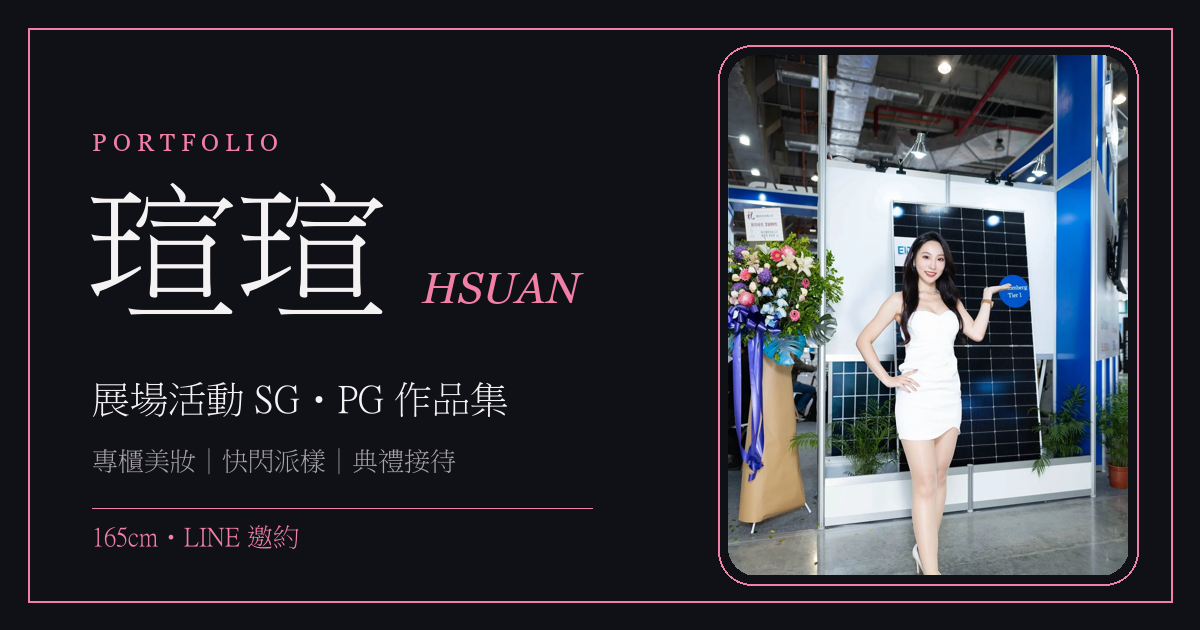
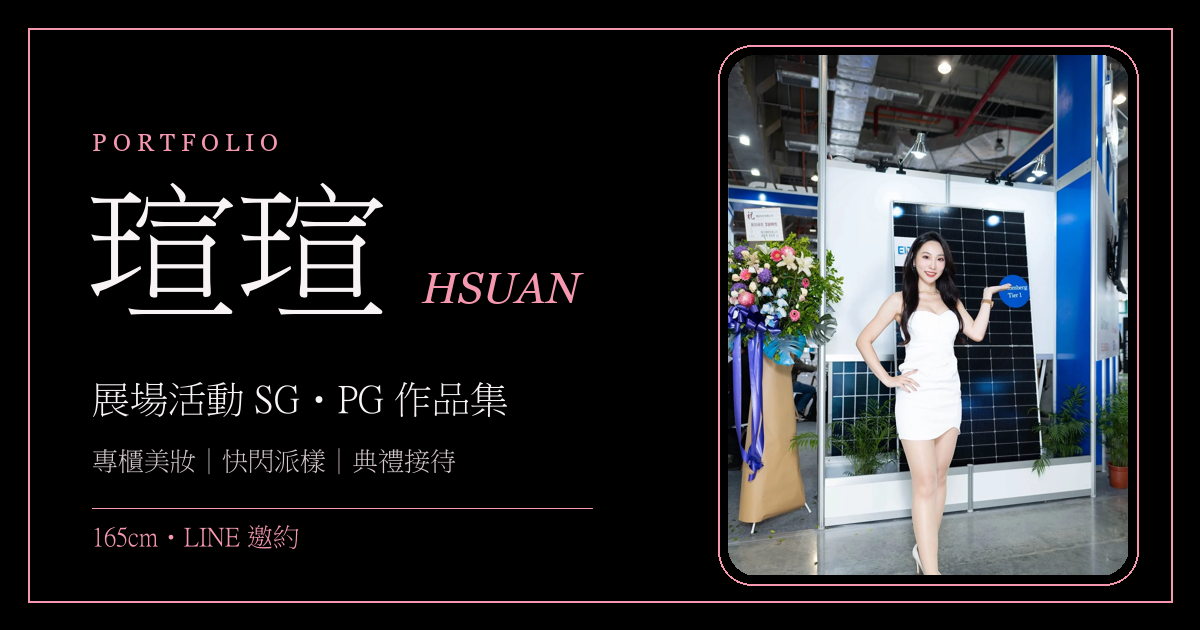
style(M1-editorial-redesign): step 6 - dark mode 配色 v4 BLACKPINK 暖黑
- dark token 依使用者新色票重寫:canvas #0B0A0B、accent #F598AF、暖粉調文字/邊框、on-accent #101010
- 新增 canvas-deep(Hero/Footer 純黑分區)、accent-strong、hairline-hover 三角色 token(含 light 對應值)
- themeColor #0B0A0B;OG/favicon 重製為純黑底+標誌粉(v4)
- 只動 dark,light(ADR-007)不變;ADR-008 記錄
- 驗證:DOM 15 token 全符合、Hero/Footer 純黑、build 通過、舊色碼 0 殘留

STATE: S9 -> S9 (M1 追加微調 step 6)

diff --git a/src/app/globals.css b/src/app/globals.css
@@ -1,28 +1,32 @@
 @import "tailwindcss";
 
-/* ---- 主題 token(ADR-004 主題系統/ADR-007 配色 v3)----
+/* ---- 主題 token(ADR-004 主題系統/ADR-007 配色 v3/ADR-008 dark v4)----
    深色為預設;[data-theme="light"] 切暖白日間。
-   配色系統 v3:石墨×玫瑰粉(2026-07-12 使用者定案色票)。
+   Dark = BLACKPINK 暖黑×標誌粉(ADR-008,2026-07-12);Light = 石墨×玫瑰粉(ADR-007,不變)。
    同一「色彩角色」跨明暗主題使用不同色碼(Material Design 建議),
    元件一律用語意色(canvas/surface/ink/muted/accent/hairline),不要硬編色碼。 */
 :root,
 [data-theme="dark"] {
-  --canvas: #101116; /* Page Background */
-  --surface: #171920; /* Primary Surface:卡片、Navbar */
-  --surface-2: #20222a; /* Secondary Surface:次層區域、hover */
-  --elevated: #282a33; /* Elevated Surface:modal、浮動元件 */
-  --ink: #f5f2f4; /* Primary Text */
-  --muted: #aaa4ac; /* Secondary Text */
-  --muted-2: #85808a; /* Muted Text:非關鍵 metadata */
-  --hairline: #31343d; /* Border */
-  --accent: #f27fa5; /* Accent Pink:深底用亮玫瑰(對比約 7.5:1) */
-  --accent-hover: #ff9abb; /* Hover / Active */
-  --accent-soft: #2c1821; /* 深酒紅提示背景 */
-  --on-accent: #101116; /* 粉色按鈕上的文字 */
-  --overlay: rgba(16, 17, 22, 0.55);
+  --canvas-deep: #000000; /* Pure Black:Hero、Footer 主要視覺背景 */
+  --canvas: #0b0a0b; /* Page Background */
+  --surface: #161216; /* Primary Surface:卡片、Navbar */
+  --surface-2: #211a1e; /* Secondary Surface:hover、側欄 */
+  --elevated: #2a2025; /* Elevated Surface:modal、dropdown */
+  --ink: #f8f3f5; /* Primary Text */
+  --muted: #d6c9ce; /* Secondary Text */
+  --muted-2: #a78f99; /* Muted Text */
+  --hairline: #3a2930; /* Border */
+  --hairline-hover: #835062; /* Border Hover */
+  --accent: #f598af; /* BLACKPINK Pink:品牌主色 */
+  --accent-hover: #ffb0c1; /* Hover / Active */
+  --accent-strong: #ee6f91; /* Accent Strong:小範圍高強度狀態 */
+  --accent-soft: #321a22; /* 粉紅標籤背景 */
+  --on-accent: #101010; /* 粉色按鈕上的文字 */
+  --overlay: rgba(0, 0, 0, 0.6);
 }
 
 [data-theme="light"] {
+  --canvas-deep: #f7f7f5; /* 日間不做純黑分區,等同 canvas */
   --canvas: #f7f7f5;
   --surface: #ffffff;
   --surface-2: #f0eeef;
@@ -31,14 +35,17 @@
   --muted: #625d66;
   --muted-2: #756e78;
   --hairline: #ded9df;
+  --hairline-hover: #c4a7b0;
   --accent: #c43f6b; /* 暖白底用深玫瑰(對比約 4.58:1,可當一般文字) */
   --accent-hover: #a93259;
+  --accent-strong: #a93259;
   --accent-soft: #f8e7ed;
   --on-accent: #ffffff;
   --overlay: rgba(23, 23, 26, 0.45);
 }
 
 @theme inline {
+  --color-canvas-deep: var(--canvas-deep);
   --color-canvas: var(--canvas);
   --color-surface: var(--surface);
   --color-surface-2: var(--surface-2);
@@ -47,8 +54,10 @@
   --color-muted: var(--muted);
   --color-muted-2: var(--muted-2);
   --color-hairline: var(--hairline);
+  --color-hairline-hover: var(--hairline-hover);
   --color-accent: var(--accent);
   --color-accent-hover: var(--accent-hover);
+  --color-accent-strong: var(--accent-strong);
   --color-accent-soft: var(--accent-soft);
   --color-on-accent: var(--on-accent);
   --color-overlay: var(--overlay);

diff --git a/src/components/Hero.tsx b/src/components/Hero.tsx
@@ -6,7 +6,7 @@ import { LineIcon } from "./Nav";
 
 export default function Hero() {
   return (
-    <section id="top" className="relative overflow-hidden">
+    <section id="top" className="relative overflow-hidden bg-canvas-deep">
       <div className="relative mx-auto grid max-w-6xl items-center gap-12 px-5 pt-14 pb-20 md:grid-cols-[1.1fr_0.9fr] md:pt-20">
         {/* 文字(手機版照片在上) */}
         <div className="order-2 md:order-1">

diff --git a/src/app/page.tsx b/src/app/page.tsx
@@ -15,7 +15,7 @@ export default function Home() {
         <Gallery />
         <Contact />
       </main>
-      <footer className="border-t border-hairline py-10 text-center">
+      <footer className="border-t border-hairline bg-canvas-deep py-10 text-center">
         <p className="font-serif text-sm tracking-[0.25em] text-muted">
           {profile.stageName}
           <span className="mx-2 italic text-accent">{profile.englishName}</span>

diff --git a/src/app/layout.tsx b/src/app/layout.tsx
@@ -47,7 +47,7 @@ export const metadata: Metadata = {
 };
 
 export const viewport: Viewport = {
-  themeColor: "#101116",
+  themeColor: "#0b0a0b",
 };
 
 /** 防 FOUC:hydration 前先從 localStorage 套用主題(預設深色,ADR-004)。 */

diff --git a/.dev-os/STATE.md b/.dev-os/STATE.md
@@ -18,17 +18,17 @@ conversation:
   health_verdict: "Healthy"
   note: "本對話已 /compact 壓縮，以壓縮後有效脈絡估計"
 current_step:
-  n: 5
-  title: "S9 視覺微調批次：光暈／簽名 logo／header 精簡（完成）"
+  n: 6
+  title: "Dark mode 配色 v4：BLACKPINK 暖黑（完成）"
   location: "same conversation"
   started_at: "2026-07-12"
 last_step:
-  n: 4
-  title: "配色系統 v3：石墨×玫瑰粉"
-  commit: "fb21a7c"
+  n: 5
+  title: "S9 視覺微調批次：光暈／簽名 logo／header 精簡"
+  commit: "a546eff"
   completed_at: "2026-07-12"
 next_step:
-  n: 6
+  n: 7
   title: "等使用者選擇:M2 發布（需明說）/ M3 補內容 / 繼續微調"
   location: "same conversation"
 blockers: []
@@ -45,11 +45,11 @@ blockers: []
 
 ## 當前 Step
 
-- **#5**: S9 視覺微調批次 — 完成。移除 Hero 光暈；header 文字 logo 換成簽名檔 `hsuuan-sign.svg`（CSS mask＋bg-ink 隨主題翻色）；移除 header LINE 按鈕。
+- **#6**: Dark mode 配色 v4 — 完成。夜間換成 BLACKPINK 暖黑（canvas `#0B0A0B`、accent `#F598AF`）＋Hero/Footer 純黑分區；新增 canvas-deep／accent-strong／hairline-hover 三 token；日間（ADR-007）不動。
 
 ## 下一個 Step
 
-- **#6**: 等使用者選擇（S9 不可自動選）：
+- **#7**: 等使用者選擇（S9 不可自動選）：
   - **A. M2 發布上線**（需明說「發布／push」，ADR-002）
   - **B. M3 補內容**（IG／新經歷／競選照決定）
   - **C. 繼續視覺微調**（本機預覽 http://localhost:3000/hsuan-resume）
@@ -60,8 +60,8 @@ blockers: []
 
 ## Module Progress
 
-- M1-editorial-redesign: 5 / 5 steps ✅（step 4-5 為 S9 內追加微調）
-- Acceptance: 全數通過（build／隱私 grep／日夜切換／3:4 統一／燈箱／品牌字牆／配色 v3 token／簽名 logo 雙主題可見）
+- M1-editorial-redesign: 6 / 6 steps ✅（step 4-6 為 S9 內追加微調）
+- Acceptance: 全數通過（build／隱私 grep／日夜切換／3:4 統一／燈箱／品牌字牆／配色 v3+v4 token／簽名 logo 雙主題可見）
 
 ## Recent commits（本模組）
 

diff --git a/.dev-os/DECISIONS.md b/.dev-os/DECISIONS.md
@@ -183,6 +183,35 @@ Next.js（App Router）＋ TypeScript ＋ Tailwind CSS v4；內容集中於 `src
 
 ---
 
+## ADR-008：Dark mode 配色 v4——BLACKPINK 暖黑×標誌粉
+
+**日期**：2026-07-12
+**狀態**：Active（Supersedes ADR-007 的 **dark** 色票；light 色票不變、主題機制與字型不變）
+
+**脈絡**：
+使用者提供一套更完整的 dark palette(暖近黑＋BLACKPINK 標誌粉)，並補齊三個先前沒有的色彩角色：Pure Black 分區背景、Accent Strong、Border Hover。只調整夜間,日間維持 ADR-007。
+
+**決定**：
+1. 新增三個 token 角色(含 light 對應值,使兩主題皆可用)：
+   - `--canvas-deep`(Pure Black,dark `#000000`／light `#f7f7f5`)：套用於 Hero 與 Footer,與 `--canvas` 頁面底做分區
+   - `--accent-strong`(dark `#EE6F91`／light `#A93259`)：小範圍高強度狀態備用
+   - `--hairline-hover`(dark `#835062`／light `#c4a7b0`)：邊框 hover 備用
+2. Dark 既有 token 全面改值：canvas `#0B0A0B`／surface `#161216`／surface-2 `#211A1E`／elevated `#2A2025`／ink `#F8F3F5`／muted `#D6C9CE`／muted-2 `#A78F99`／hairline `#3A2930`／accent `#F598AF`／accent-hover `#FFB0C1`／accent-soft `#321A22`／on-accent `#101010`／overlay `rgba(0,0,0,.6)`
+3. `viewport.themeColor` 改 `#0B0A0B`；OG 分享圖＋favicon 重製為純黑底＋標誌粉(v4 腳本)
+4. `--accent-strong`／`--hairline-hover` 已定義並掛進 `@theme inline`(可用 `bg-accent-strong`／`border-hairline-hover`),目前保留備用、未強制套用到既有 hover(既有 hover 仍走 accent,視覺較醒目)
+
+**理由**：
+- 暖黑(帶紅微量)比冷石墨更貼合粉色品牌、照片在純黑 Hero 上更跳
+- 補齊角色讓 token 系統與使用者規格對齊,日後可直接引用
+
+**Trade-off**：
+- Hero/Footer 純黑與頁面 `#0B0A0B` 差異極細微(刻意的分區,肉眼近乎一致)
+- 兩個備用 token 目前未被消費(有意保留)
+
+**影響的模組**：M1 dark 呈現、OG／favicon
+
+---
+
 ## 待補的 ADR（rolling list）
 
 - [ ] 自訂網域方案（觸發：使用者購買網域時）

diff --git a/.dev-os/specs/M1-editorial-redesign/STEP_LOG.md b/.dev-os/specs/M1-editorial-redesign/STEP_LOG.md
@@ -59,5 +59,21 @@
   - Header 文字 logo「瑄瑄 HSUAN」換成使用者提供的簽名檔:`hsuuan-sign.svg` 由 root 搬進 `public/`＋收緊 viewBox(`220 47 630 242`,去除四周大量留白);用 CSS mask＋`bg-ink` 呈現,純黑簽名改由 alpha 遮罩上主題 ink 色,深色近白/日間近黑皆清晰
   - 移除 header 的「LINE 邀約」按鈕(Hero 與 邀約區的 LINE CTA 保留);`LineIcon` export 仍在(Hero/Contact 使用)
 - **驗證**：build exit 0；`out/hsuuan-sign.svg` 已輸出；DOM 確認 header 無 line.me 按鈕、logo mask 尺寸 96×36、bg 隨主題翻色；雙主題截圖簽名皆可見；console 0 錯誤
+- **Commit**：`a546eff`
+- **偏離**：無
+
+---
+
+## Step 6 — Dark mode 配色 v4：BLACKPINK 暖黑（2026-07-12）
+
+- **State**：S9 內追加微調（使用者提供新 dark 色票＝選項 C，只動夜間）
+- **做了什麼**：
+  - 依使用者完整 dark palette 重寫 token(ADR-008):暖近黑 `#0B0A0B`＋BLACKPINK 粉 `#F598AF`＋暖粉調文字/邊框;on-accent `#101010`
+  - 新增三個色彩角色 token(含 light 對應值):`--canvas-deep`(Hero/Footer 純黑分區)、`--accent-strong`、`--hairline-hover`,掛進 `@theme inline`
+  - Hero 與 Footer 套 `bg-canvas-deep`(純黑),與頁面 `#0B0A0B` 做細微分區;themeColor 改 `#0B0A0B`
+  - OG 分享圖＋favicon 重製為純黑底＋標誌粉(v4 腳本)
+  - **只改 dark;light(ADR-007)完全不動**
+- **驗證**：build exit 0；DOM 逐字比對 15 個 token 全符合色票、Hero/Footer `rgb(0,0,0)`、body `#0B0A0B`；console 0 錯誤；舊 dark 色碼 src 殘留 0 筆
+- **已知環境註記**：本 session 預覽截圖管線再度卡死,視覺證據以 computed token 為準,實機不受影響
 - **Commit**：（本 step commit）
 - **偏離**：無
